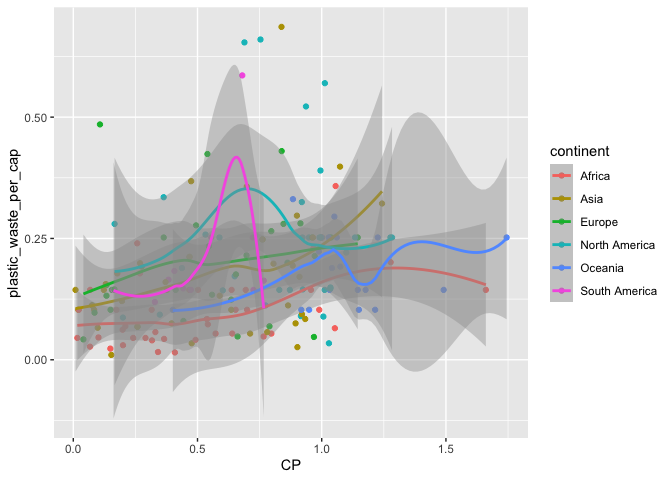
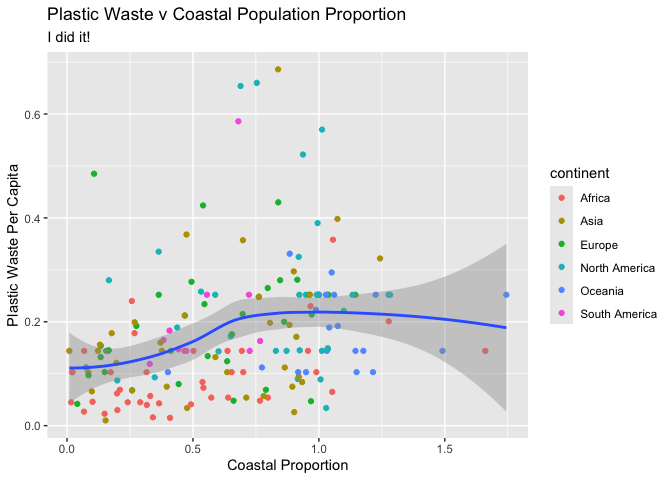
Got exercise 5 to work!!!!

diff --git a/lab-02.md b/lab-02.md
@@ -132,7 +132,10 @@ ggplot(data=df_filtered,
 
 ![](lab-02_files/figure-gfm/plastic-waste-density-1.png)<!-- -->
 
-2.2 Color and fill are aesthetics because
+2.2 Color and fill are aesthetics, but alpha is part of geom_density
+because of the way that the layering occurs to make the graph. The
+density part is adding on to the plot, and the alpha is directly related
+to the “see-through-ness” of this new addition.
 
 ### Exercise 3
 
@@ -255,11 +258,14 @@ CoastalProportion <- df_filtered %>%
   mutate(CP = coastal_pop / total_pop)
 
 ggplot(data = CoastalProportion, 
-mapping = aes(x= CP, 
-y=plastic_waste_per_cap, 
-color=continent)) + 
-geom_point() + 
-   geom_smooth()
+      mapping = aes(x= CP, 
+              y=plastic_waste_per_cap)) + 
+geom_point(aes(color = continent)) + 
+  geom_smooth() +
+  labs(title= "Plastic Waste v Coastal Population Proportion",
+       subtitle= "I did it!",
+       x="Coastal Proportion",
+       y= "Plastic Waste Per Capita")
 ```
 
     ## `geom_smooth()` using method = 'loess' and formula = 'y ~ x'
@@ -271,16 +277,3 @@ geom_point() +
     ## (`geom_point()`).
 
 ![](lab-02_files/figure-gfm/unnamed-chunk-5-1.png)<!-- -->
-
-``` r
-  labs(title= "Plastic Waste v Coastal Population Proportion",
-       subtitle= "not quite right",
-       x="Coastal Proportion",
-       y= "Plastic Waste Per Capita")
-```
-
-    ## <ggplot2::labels> List of 4
-    ##  $ x       : chr "Coastal Proportion"
-    ##  $ y       : chr "Plastic Waste Per Capita"
-    ##  $ title   : chr "Plastic Waste v Coastal Population Proportion"
-    ##  $ subtitle: chr "not quite right"
